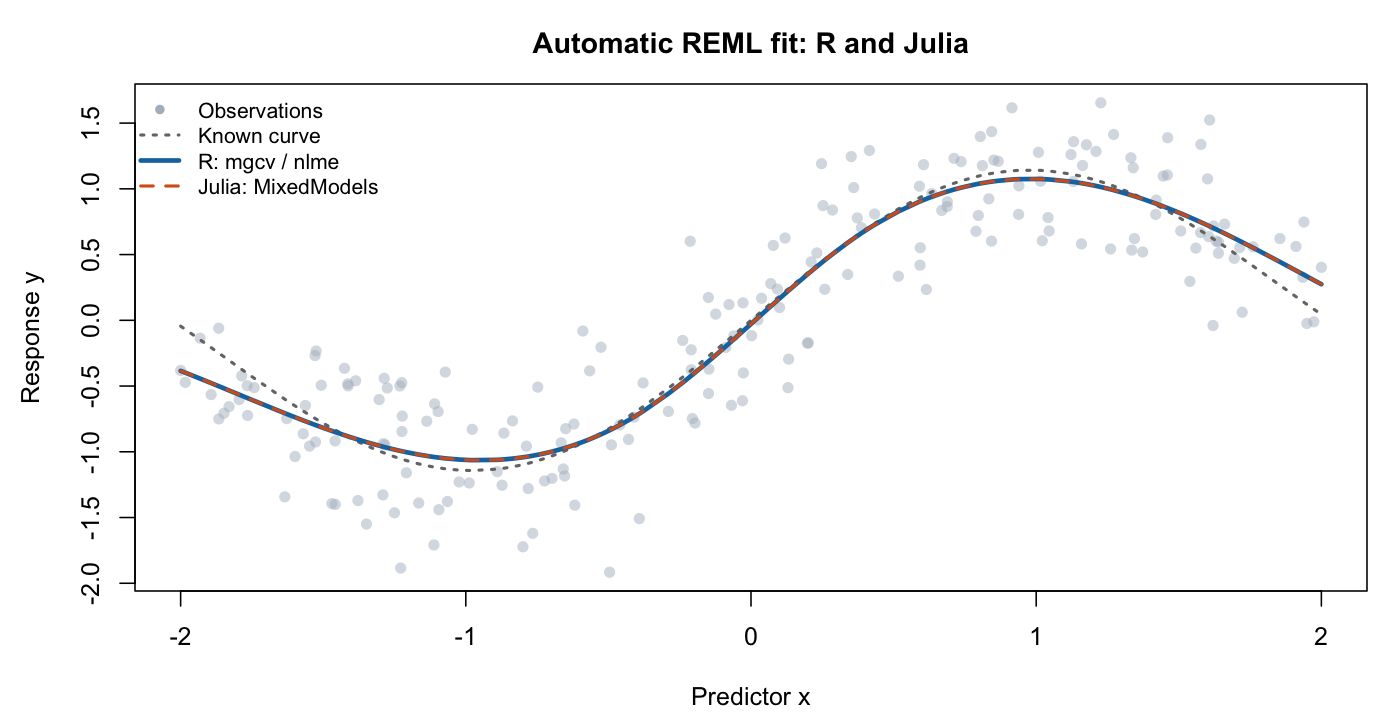
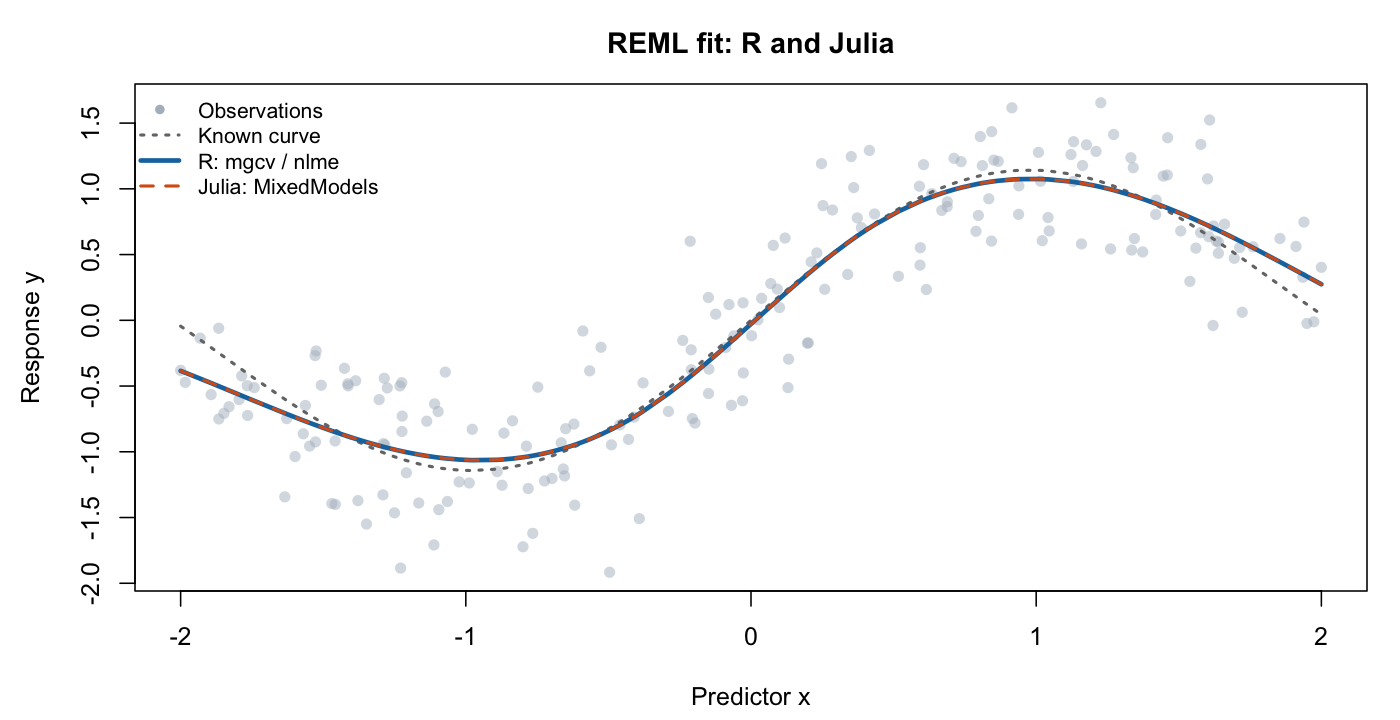
Simplify stage overview and explain REML comparison tolerances

Changed region(s): [[0.3686, 0.0306, 0.7064, 0.0917]]

diff --git a/README.md b/README.md
@@ -10,19 +10,18 @@ The main dimensions below refer to our **200-observation example with $k=8$ raw 
 
 ## Stage 1: prepare the model inputs
 
-**Purpose:** turn predictor values and spline settings into matrices that a mixed model can use.
+We start with 200 training predictor values $x$ and the spline settings: cubic B-splines (degree 3), $k=8$, a full vector of 12 knots, and an integrated squared-second-derivative penalty that controls curve bending. Knots can be supplied or calculated from the training predictor range.
 
-| Role | Quantity and meaning | Main dimensions |
+Julia constructs the basis and prepares the mixed-model matrices. R's mgcv provides an independent reference for the same steps:
+
+| Quantity | What it represents | Main dimensions |
 | --- | --- | --- |
-| Input | $x$: training predictor values | 200 values |
-| Input | Full knot vector: positions defining the spline pieces | 12 values |
-| Constructed | $B,S$: centered spline basis and matching curvature penalty | 200 × 7; 7 × 7 |
-| Output | $X_{\mathrm{fixed}}$: fixed-effect design | 200 × 2 |
-| Output | $Z$: penalized spline design | 200 × 6 |
+| $B$ | Centered spline basis | 200 × 7 |
+| $S$ | Matching curvature penalty | 7 × 7 |
+| $X_{\mathrm{fixed}}$ | Intercept and unpenalized spline component | 200 × 2 |
+| $Z$ | Penalized spline components | 200 × 6 |
 
-**Method and settings:** Julia uses our basis-construction and model-preparation functions; R uses mgcv as an independent reference. Both use cubic B-splines (degree 3), $k=8$ in the main example, a supplied or automatically calculated knot vector, and a curvature penalty that measures squared second derivatives.
-
-Centering separates the spline from the intercept, reducing eight raw basis columns to seven. $X_{\mathrm{fixed}}=[X,X_0]$ combines the intercept with the unpenalized spline component; $Z$ contains the six penalized components. Training knots, centering, penalty scaling and coefficient transformations are retained for prediction. Observed responses $y$ are used for fitting in Stage 2.
+Centering separates the spline from the intercept, reducing eight raw basis columns to seven. $X_{\mathrm{fixed}}=[X,X_0]$ combines the ordinary intercept with the unpenalized spline component. Stage 1 supplies $X_{\mathrm{fixed}},Z$ to fitting and retains the training knots and transformations for prediction.
 
 We check preparation independently of fitting:
 
@@ -35,21 +34,19 @@ We check preparation independently of fitting:
 
 ## Stage 2: fit and estimate smoothing
 
-**Purpose:** use the prepared model and observed responses to learn the curve and its smoothing strength. The Stage 2 test repeats Stage 1 preparation in each branch, starting from the same saved observations and settings.
+We add the 200 observed responses $y$ to the Stage 1 matrices $X_{\mathrm{fixed}},Z$. The Stage 2 test repeats preparation in each branch from the same saved data and settings, then fits the model with REML.
 
-| Role | Quantity and meaning | Main dimensions |
+R's `mgcv::gamm` prepares the spline and calls `nlme::lme`. Julia packages its own matrices in `FeTerm` and `ReMat` containers for `MixedModels.LinearMixedModel`, then calls `fit!`. Each fit produces:
+
+| Quantity | What it represents | Main dimensions |
 | --- | --- | --- |
-| Input | $y$: observed training responses | 200 values |
-| Input | $X_{\mathrm{fixed}},Z$: designs prepared in Stage 1 | 200 × 2; 200 × 6 |
-| Output | $b$: fitted fixed coefficients | 2 values |
-| Output | $r$: fitted penalized spline coefficients | 6 values |
-| Output | $\sigma^2,\tau^2$: noise variance and shared spline variance | One value each |
-| Output | $\lambda$: smoothing strength derived from the variances | One value |
-| Output | $\hat y$: fitted responses at the training predictor values | 200 values |
+| $b$ | Fitted fixed coefficients | 2 values |
+| $r$ | Fitted penalized spline coefficients | 6 values |
+| $\sigma^2,\tau^2$ | Noise variance and shared spline variance | One value each |
+| $\lambda$ | Smoothing strength derived from the variances | One value |
+| $\hat y$ | Fitted responses at the training predictor values | 200 values |
 
-**Tools:** R's `mgcv::gamm` prepares the spline and calls `nlme::lme`. Julia prepares its own matrices, packages them in `FeTerm` and `ReMat` containers, and fits with `MixedModels.LinearMixedModel` and `fit!`.
-
-**Essential settings:** REML estimates variances while accounting for fitted fixed effects. All six penalized coefficients share one Gaussian variance $\tau^2$; noise is independent Gaussian with variance $\sigma^2$, and observations have equal weights. Smoothing is estimated automatically rather than fixed beforehand.
+REML estimates variances while accounting for fitted fixed effects. All six penalized coefficients share one Gaussian variance $\tau^2$; noise is independent Gaussian with variance $\sigma^2$, and observations have equal weights.
 
 Using fitted coefficients and variances:
 
@@ -69,17 +66,15 @@ The two main comparisons are **smoothing strength $\lambda$** and **fitted respo
 
 ## Stage 3: predict at new predictor values — planned
 
-**Purpose:** apply the fitted curve to new predictor values. Let $m$ be the number of new observations.
+We will apply the fitted curve to $m$ new predictor values $x_{\mathrm{new}}$, using the fitted coefficients $b,r$ and the training knots, centering, penalty scaling and coefficient transformations:
 
-| Role | Quantity and meaning | Main dimensions |
+| Quantity | What it represents | Main dimensions |
 | --- | --- | --- |
-| Input | $x_{\mathrm{new}}$: new predictor values | $m$ values |
-| Input | Training knots and saved Stage 1 transformations | 12 knot values; transformations reused |
-| Input | Fitted coefficients $b,r$ from Stage 2 | 2 values; 6 values |
-| Constructed | $X_{\mathrm{fixed,new}},Z_{\mathrm{new}}$: designs evaluated at new values | $m$ × 2; $m$ × 6 |
-| Output | $\hat y_{\mathrm{new}}$: predicted responses | $m$ values |
+| $X_{\mathrm{fixed,new}}$ | Fixed components evaluated at new predictor values | $m$ × 2 |
+| $Z_{\mathrm{new}}$ | Penalized components evaluated at new predictor values | $m$ × 6 |
+| $\hat y_{\mathrm{new}}$ | Predicted responses | $m$ values |
 
-The planned Julia prediction step will reuse the training knots, centering, penalty scaling and coefficient transformations, then apply the fitted coefficients. The learned smoothing is already reflected in those coefficients. We will compare these predictions with R at the same new predictor values; observed responses at those points are not required to produce predictions.
+The learned smoothing is already reflected in the fitted coefficients. We will compare Julia and R predictions at the same new predictor values. Observed responses at those points are not required to produce predictions.
 
 After this, we plan to integrate with Unfold or UnfoldMixedModels where the required variance structure is supported with comparable efficiency, starting with controlled examples before EEG applications.
 

diff --git a/VALIDATION.md b/VALIDATION.md
@@ -32,25 +32,46 @@ Independent mathematical examples check polynomial shapes, derivatives, curvatur
 
 Numerical results remain in [STAGE1_RESULTS.md](STAGE1_RESULTS.md). Supporting mathematics and primary sources are collected in [DERIVATION.md](DERIVATION.md).
 
-## Stage 2: automatic REML fitting
+## Stage 2: REML fitting and smoothing estimation
 
-R and Julia independently construct and fit all five cases from the same saved predictor and response values and spline settings. R uses `mgcv::gamm` / `nlme::lme`; Julia uses the low-level `MixedModels.LinearMixedModel` constructor with prepared `FeTerm` and `ReMat` containers, followed by `fit!(model; REML=true)`. The Stage 2 test repeats Stage 1 preparation in each branch; $\lambda$ is estimated automatically.
+R and Julia independently construct and fit all five cases from the same saved predictor and response values and spline settings. R uses `mgcv::gamm` / `nlme::lme`; Julia uses the low-level `MixedModels.LinearMixedModel` constructor with prepared `FeTerm` and `ReMat` containers, followed by `fit!(model; REML=true)`. The Stage 2 test repeats Stage 1 preparation in each branch and estimates smoothing through REML.
 
 The model has one shared spline variance, $\tau^2$, and one residual variance, $\sigma^2$. Julia estimates $\theta=\tau/\sigma$ and obtains $\lambda=1/\theta^2$. R's spline variance is read independently from its fitted random-effect covariance, and its ratio to residual variance is checked against `gam$sp`. Both fits must converge.
 
-The two main output comparisons are:
+### Error formulas and tolerances
 
-- **Smoothing strength $\lambda$:** absolute difference divided by the larger magnitude, with tolerance $10^{-5}$.
-- **All fitted responses $\hat y$:** the scaled norm above, with tolerance $10^{-6}$.
+Both errors measure agreement between R and Julia. For **smoothing strength**, we divide the difference by the larger estimate:
 
-Matching $\lambda$ checks smoothing strength; matching $\hat y$ checks the resulting fitted curve. Supporting checks compare $\sigma^2$ and $\tau^2$ with relative tolerance $10^{-5}$, because the same ratio can arise from different variance scales. They also verify matching predictor, response and knot values, and exactly one shared spline variance in each model. Parameter symbols follow the derivation; in the results they denote fitted estimates.
+```math
+E_{\lambda}=
+\frac{|\lambda_{\mathrm{Julia}}-\lambda_R|}
+{\max(|\lambda_{\mathrm{Julia}}|,|\lambda_R|,\epsilon_{\mathrm{mach}})}
+\leq 10^{-5}.
+```
 
-The fitting tolerances allow small differences between numerical optimizers. Raw coefficient entries and package log-likelihood values are not used for cross-language agreement because coefficient coordinates and fixed-effect scaling can differ. Fitted responses are compared in the original observation coordinates. Results and individual checks are in [STAGE2_RESULTS.md](STAGE2_RESULTS.md).
+This permits a relative difference of **0.001%**. The small guard $\epsilon_{\mathrm{mach}}$ is machine precision (about $2.22\times10^{-16}$), preventing division by zero. Variance comparisons use the same formula and threshold with $\sigma^2$ or $\tau^2$, checking the variance scale as well as its ratio.
+
+For **fitted responses**, we combine differences at all 200 matching observations:
+
+```math
+E_{\hat y}=
+\frac{\lVert\hat y_{\mathrm{Julia}}-\hat y_R\rVert_2}
+{\max(1,\lVert\hat y_{\mathrm{Julia}}\rVert_2,\lVert\hat y_R\rVert_2)}
+\leq 10^{-6}.
+```
+
+Here $\lVert v\rVert_2=\sqrt{\sum_i v_i^2}$. The denominator scales the difference by the size of the fitted-response vectors; the floor of 1 handles small values. This is one combined error across observations.
+
+**Why two thresholds?** We chose these numerical acceptance thresholds for this project. The looser $10^{-5}$ parameter threshold accommodates differences between variance optimizers; the stricter $10^{-6}$ response threshold requires closer agreement in the resulting curve. These are comparison thresholds, separate from each fitter's stopping rules.
+
+Supporting checks verify matching predictor, response and knot values, and exactly one shared spline variance in each model. Parameter symbols follow the derivation; in the results they denote fitted estimates.
+
+Raw coefficient entries and package log-likelihood values are not used for cross-language agreement because coefficient coordinates and fixed-effect scaling can differ. Fitted responses are compared in the original observation coordinates. Results and individual checks are in [STAGE2_RESULTS.md](STAGE2_RESULTS.md).
 
 ### Checking the Julia input adapter
 
 A dense spline matrix must be packaged consistently with `ReMat`'s native storage and shared variance. The adapter uses orthogonal changes of coordinates to make the random design diagonal while preserving the Gaussian covariance model and REML objective. It does not change the Stage 1 spline or add variance parameters. Predictions and random coefficients are returned to their original coordinates after fitting. The container's levels index transformed spline directions.
 
-Independent Julia tests verify the adapter's covariance identity and round trip, compare its fitted solution and REML objective with a direct marginal Gaussian calculation, and check invariance to rotations of spline directions. They also cover zero estimated spline variance and invalid inputs. This calculation evaluates the automatically fitted solution; it is not a separate fitting stage with fixed $\lambda$.
+Independent Julia tests verify the adapter's covariance identity and round trip, compare its fitted solution and REML objective with a direct marginal Gaussian calculation, and check invariance to rotations of spline directions. They also cover zero estimated spline variance and invalid inputs. This calculation evaluates the REML-fitted solution; it is not a separate fitting stage with fixed $\lambda$.
 
 Sources: [mgcv::gamm](https://stat.ethz.ch/R-manual/R-devel/library/mgcv/html/gamm.html), [nlme covariance extraction](https://stat.ethz.ch/R-manual/R-devel/library/nlme/html/pdMatrix.html), [MixedModels estimation](https://juliastats.org/MixedModels.jl/stable/optimization/), and the pinned [constructor](https://github.com/JuliaStats/MixedModels.jl/blob/v5.9.0/src/linearmixedmodel.jl) and [ReMat implementation](https://github.com/JuliaStats/MixedModels.jl/blob/v5.9.0/src/remat.jl).

diff --git a/DATA.md b/DATA.md
@@ -34,6 +34,6 @@ Each case also has 61 evaluation points from −2.7 to 2.7 for checking basis va
 
 Basis construction has **13 comparisons per case**, giving 65 across five cases. The combined workflow has **7 comparisons per case**, giving 35, and includes the required fixed/random preparation. The main `uniform_k8` case also provides the captured R fitting inputs.
 
-Stage 2 reuses these same five cases and observed responses. Each fit estimates smoothing automatically; the [fitting results](STAGE2_RESULTS.md) compare R and Julia without changing the data or knots.
+Stage 2 reuses these same five cases and observed responses. Each fit estimates smoothing through REML; the [fitting results](STAGE2_RESULTS.md) compare R and Julia without changing the data or knots.
 
 Saved observations, knots and evaluation points are under [data/inputs](data/inputs). Sources: the [Julia data definition](data/generate.jl), [recorded case settings](data/inputs/cases.tsv), and [cubic B-spline dimensions](https://stat.ethz.ch/R-manual/R-devel/library/splines/html/splineDesign.html).
